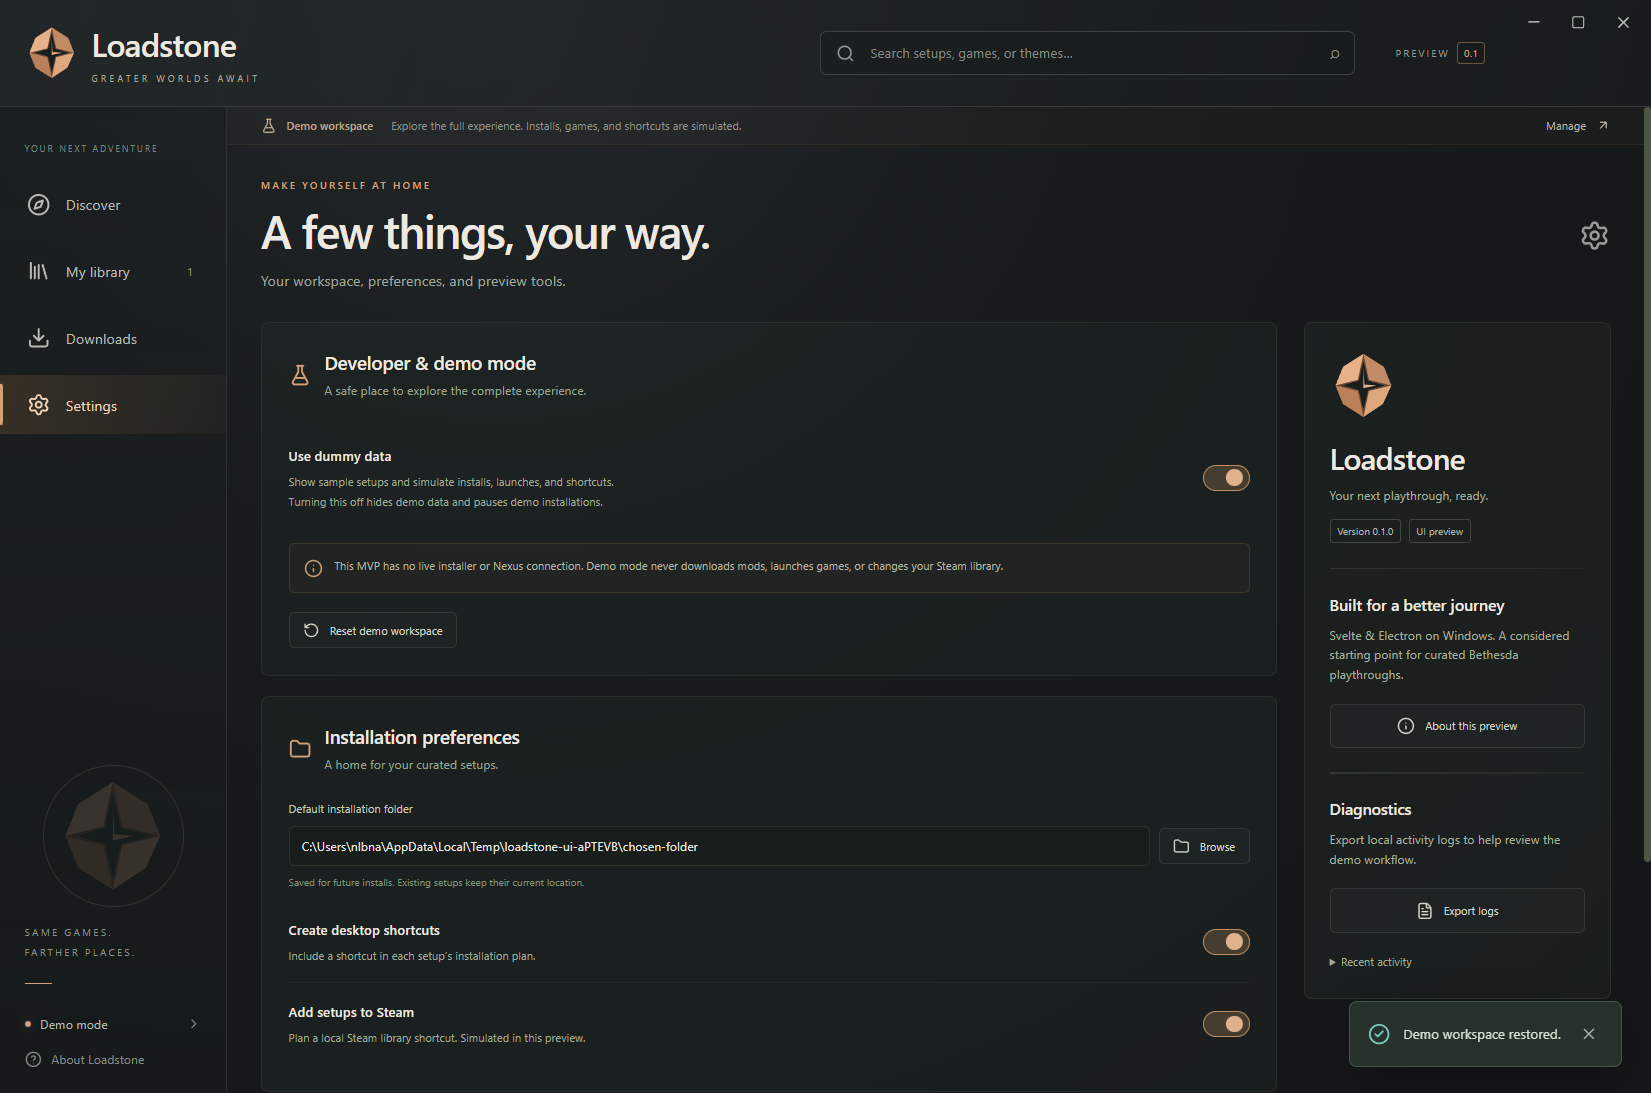
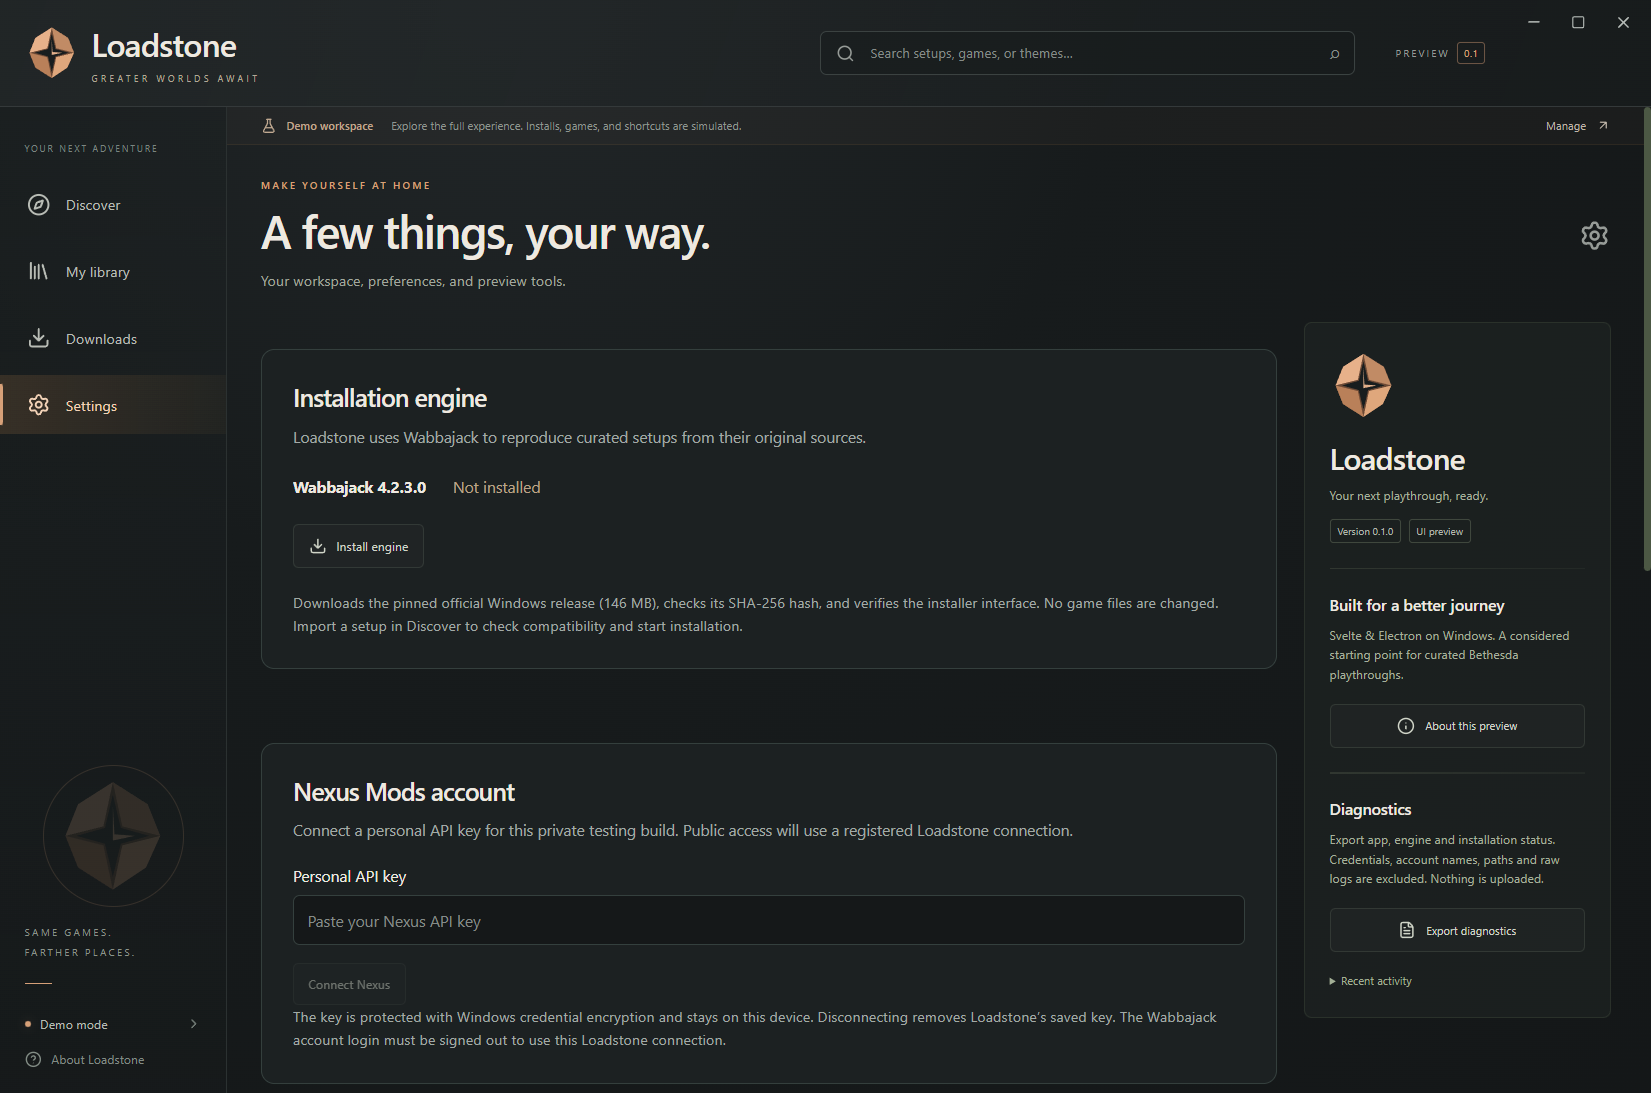
Audit publication history and replace personal-path screenshot (#18)

diff --git a/docs/publication-audit.md b/docs/publication-audit.md
@@ -1,0 +1,28 @@
+# Publication hygiene audit
+
+Run `pnpm audit:publication` from a complete local checkout after fetching the refs intended for publication. The command reads unique file blobs from all commits reachable from local refs and writes `test-results/publication-audit.json`. It never changes Git history or repository visibility. Reports include rule, blob ID, file and line, not matched values or source excerpts. Keep reports local until reviewed.
+
+The scanner checks recognizable private-key headers, selected provider-token formats, credential-bearing URLs, sensitive query parameters, personal home-directory paths and sensitive filenames. It inventories binary/non-UTF8/large blobs for manual review rather than silently treating them as clean. Exit status zero means the scan completed; it does **not** mean publication is cleared. There is no automatic allowlist for test directories.
+
+## Initial review, 2026-10-01
+
+Baseline source: `8245844d5fdbfe82d6f7ff7c351cbaa842462161`. Available local refs contained 46 commits and 241 unique blobs: 235 UTF-8 text blobs scanned and six binary assets inventoried.
+
+The scan reported 17 text matches, including three in that HEAD:
+
+- Fourteen revisions of `tests/live.test.mjs` contain the same deliberately invalid credential-bearing example URL used to test manifest rejection.
+- `tests/fixtures/installer-child.cjs` contains a synthetic query-token value used to prove log redaction.
+- `tests/diagnostics.test.mjs` contains a synthetic personal-path canary used to prove diagnostic privacy.
+- Historical `docs/portable-verification.json`, blob `5218a659da29ef7314c1efed0e703e873f5c6de5`, contains a personal absolute executable path. The current file had already been changed to a basename, but the older blob remains reachable.
+
+Visual review found a personal Windows path in the old `docs/screenshots/settings.png`, blob `854eacef22babdb4e9def4f0ca339e56e66f4a43`. This change replaces the current screenshot with a fresh capture of the actual UI from isolated app data, using a neutral demo install path and no connected account. The older screenshot remains in Git history. Discovery and Library screenshots were visually reviewed without finding personal paths or credentials in their displayed content.
+
+The five current PNG assets were inspected for chunk types. Discovery, Library, Settings and the icon contain image chunks only. `public/worlds.png` also contains a `caBX` provenance container; it is retained and still needs provenance-metadata review. The icon ICO container, release assets, commit messages and author identities need separate review. Visual inspection and a small rule set cannot prove absence of sensitive material.
+
+## Before publishing
+
+Resolve how to handle the historical report and screenshot before making existing history public: retain them with explicit acceptance of the personal-path disclosure, or prepare a separately reviewed sanitized publication history. No history rewrite or force push has been performed by this audit. Do not assume deleting a file in a new commit removes the older contents.
+
+Review commit identities/messages, generated provenance metadata, release packages, untracked material proposed for publication, and any refs not present locally. Re-run the audit after changes and investigate new findings individually. If an actual credential is found, revoke it at its provider before considering history cleanup. The current matches were classified as fixtures or personal-path material; this is not a general credential-free certification.
+
+This audit does not settle project licensing, attribution gaps, security-reporting contacts, Nexus registration, real installation acceptance, or approval to change repository visibility. See [open-source preparation](open-source.md).

diff --git a/CONTRIBUTING.md b/CONTRIBUTING.md
@@ -35,3 +35,5 @@ Notice generation reads the installed production graph and Electron license. Rev
 Do not treat a passing fixture suite as completion of install-to-play acceptance. Record the exact game, list, engine and application versions for real release validation.
 
 Builds embed the Git commit, dirty-worktree flag and lockfile SHA-256 in `dist/build-info.json`. Source archives without Git metadata report an unknown commit. Diagnostic exports include this build identity so builds with the same preview version can still be distinguished. Exports use an explicit field allowlist; do not add arbitrary log, manifest or credential objects to them.
+
+Run `pnpm audit:publication` before proposing public release. See [publication hygiene findings](docs/publication-audit.md) for the scan scope, classified fixtures, historical personal-path findings and outstanding manual review. The command never rewrites history and does not approve publication.

diff --git a/docs/open-source.md b/docs/open-source.md
@@ -32,3 +32,5 @@ Current notice gaps: installed `is-reference@3.0.3` and `locate-character@3.0.0`
 - Obtain an explicit publication request before changing repository visibility or publishing a public release.
 
 These gates remain open. This document records preparation, not approval to publish.
+
+Run `pnpm audit:publication` before proposing public release. See [publication hygiene findings](publication-audit.md) for the scan scope, classified fixtures, historical personal-path findings and outstanding manual review. The command never rewrites history and does not approve publication.
